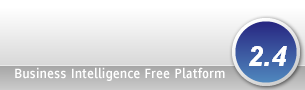
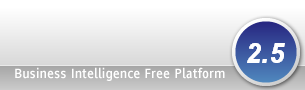
upgrated to 2.5 version
git-svn-id: svn://svn.forge.objectweb.org/svnroot/spagobi@10185 99afaf0d-6903-0410-885a-c66a8bbb5f81

Changed region(s): [[0.7967, 0.4667, 0.9443, 0.7333]]

diff --git a/V2.x/trunk/SpagoBIProject/web-content/themes/sbi_default/html/infos.html b/V2.x/trunk/SpagoBIProject/web-content/themes/sbi_default/html/infos.html
@@ -7,7 +7,7 @@
 <br>
 <div></div>
 <div>
-Version: 2.4.0
+Version: 2.5.0
 </div>
 <br>
 <div> 
